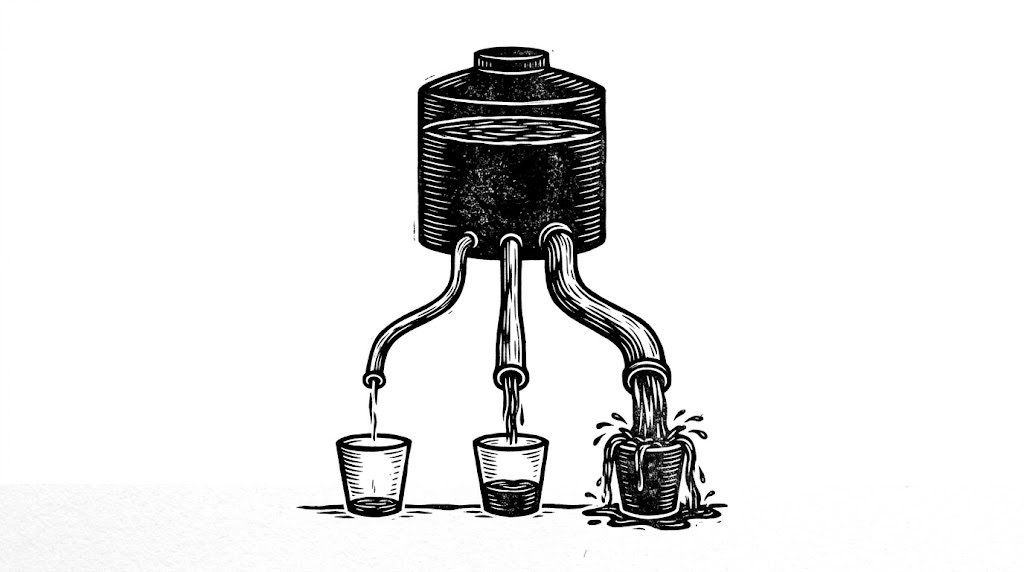
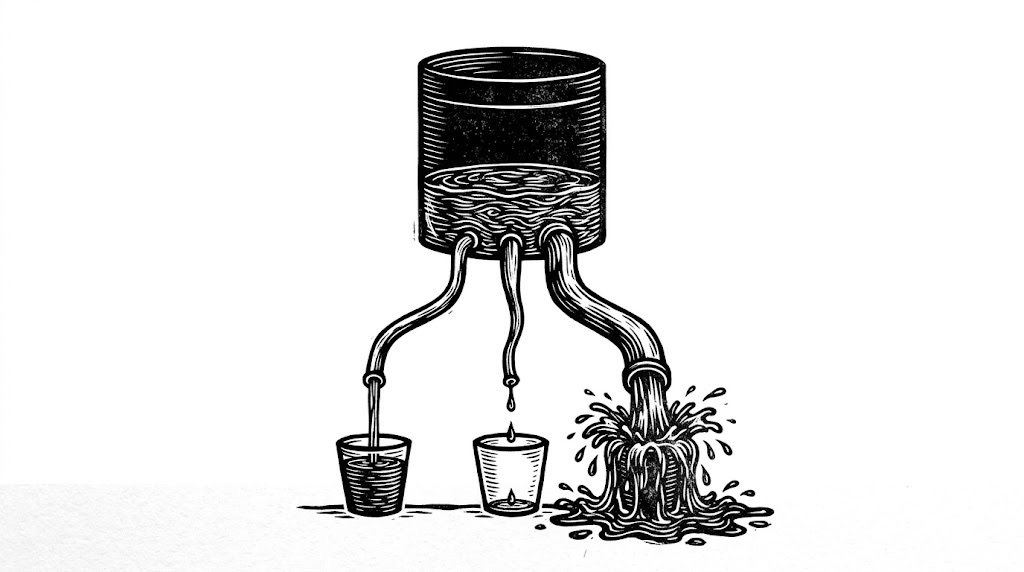
barrett: 身體預算圖 v2（故事修正：生長修復被抽乾、維持生命受保護、總量偏低）

Changed region(s): [[0.4062, 0.0594, 0.5938, 0.7727], [0.4688, 0.6538, 0.75, 0.951], [0.3125, 0.6538, 0.4062, 0.8916]]

diff --git a/entries/barrett-predictive-brain.html b/entries/barrett-predictive-brain.html
@@ -20,7 +20,7 @@
 <meta name="apple-mobile-web-app-title" content="閱讀庫">
 <meta name="robots" content="noindex, nofollow">
 </head>
-<body data-entry="barrett-predictive-brain" data-video="rCtvAvZtJyE" data-hlver="3">
+<body data-entry="barrett-predictive-brain" data-video="rCtvAvZtJyE" data-hlver="4">
 <div class="progress"><div class="bar"></div></div>
 
 <div class="topbar caps">
@@ -223,13 +223,13 @@
     <figure class="figure rise">
       <div class="fl caps">圖解 · 身體預算：一池水、三條管</div>
       <div class="dgimg">
-        <img src="../assets/img/diagram-barrett-budget.jpg" alt="一個標著滿水位線的儲水槽，底部分出三條粗細不同的水管流進三個水桶：最粗那條的桶滿到溢出，另外兩桶只剩少量的水">
-        <span class="lbl" style="left:4%;top:12%">總量有天花板</span>
-        <span class="lbl" style="left:8%;bottom:4%">維持生命</span>
-        <span class="lbl" style="left:41%;bottom:4%">生長與修復</span>
-        <span class="lbl" style="right:6%;bottom:12%">費力的事（壓力掛在這）</span>
+        <img src="../assets/img/diagram-barrett-budget.jpg" alt="一個水位偏低的儲水槽分出三條水管：左管水流穩定、杯子八分滿；中管被掐細只滴出一滴、杯子近乎全空；右管最粗、水流大到杯子接不住、灑滿一地">
+        <span class="lbl" style="left:8%;top:8%">總量有天花板，而且正在變低</span>
+        <span class="lbl" style="left:6%;bottom:12%">維持生命：<br>最後才被砍</span>
+        <span class="lbl" style="left:33%;bottom:1%">生長修復與學習：最先被抽乾</span>
+        <span class="lbl" style="right:4%;top:66%">費力的事：<br>慢性壓力掛在這，<br>大部分的水從這流走</span>
       </div>
-      <figcaption>三筆開銷共用同一池水；「費力的事」那條管一粗（慢性壓力、傷病），生長修復和學習就被抽乾——這就是為什麼卡住的人不是不想改，是大腦沒預算更新</figcaption>
+      <figcaption>三筆開銷共用同一池水。「費力的事」那條管一粗（慢性壓力、傷病），最先斷水的是中間那管——而「用預測誤差更新自己」正是學習、走的就是中間那管。這就是為什麼卡住的人不是不想改，是大腦沒預算更新</figcaption>
     </figure>
 
     <p>這份預算有三筆開銷：</p>
